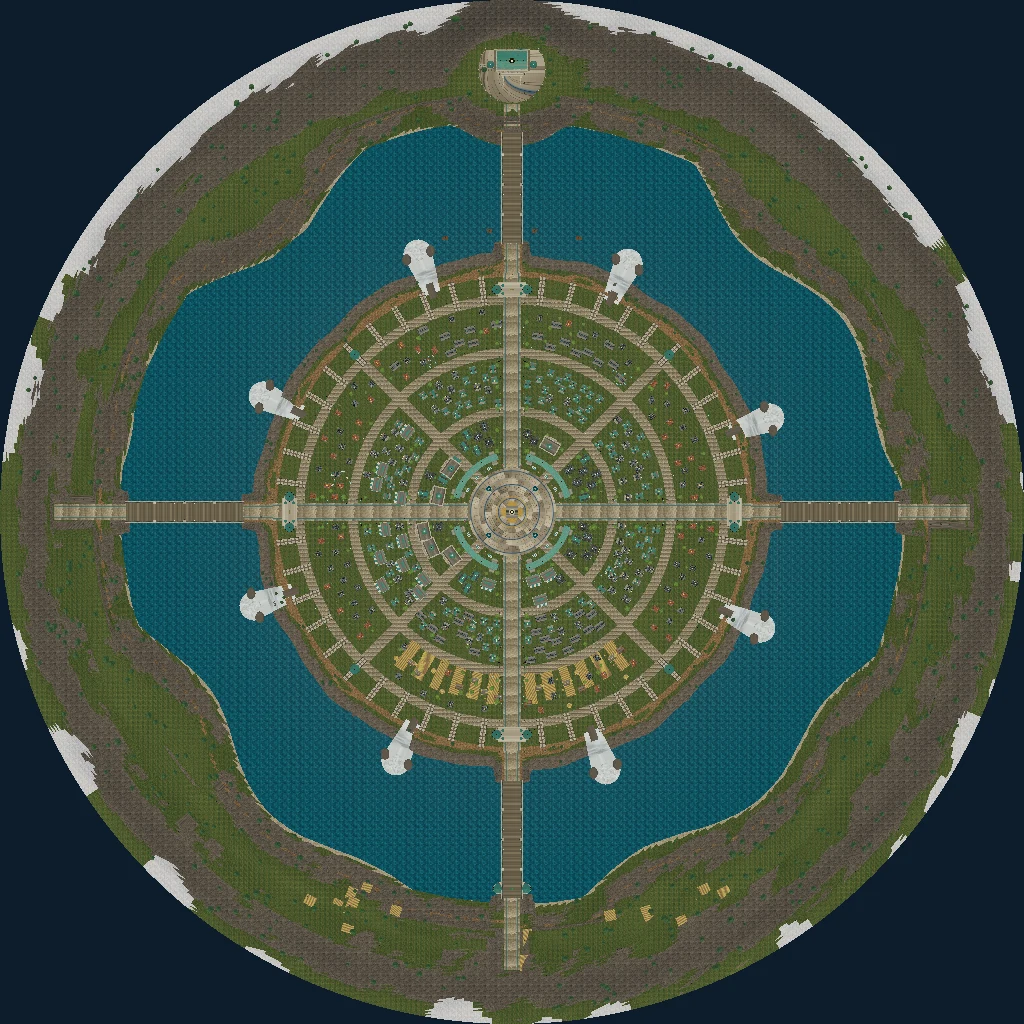
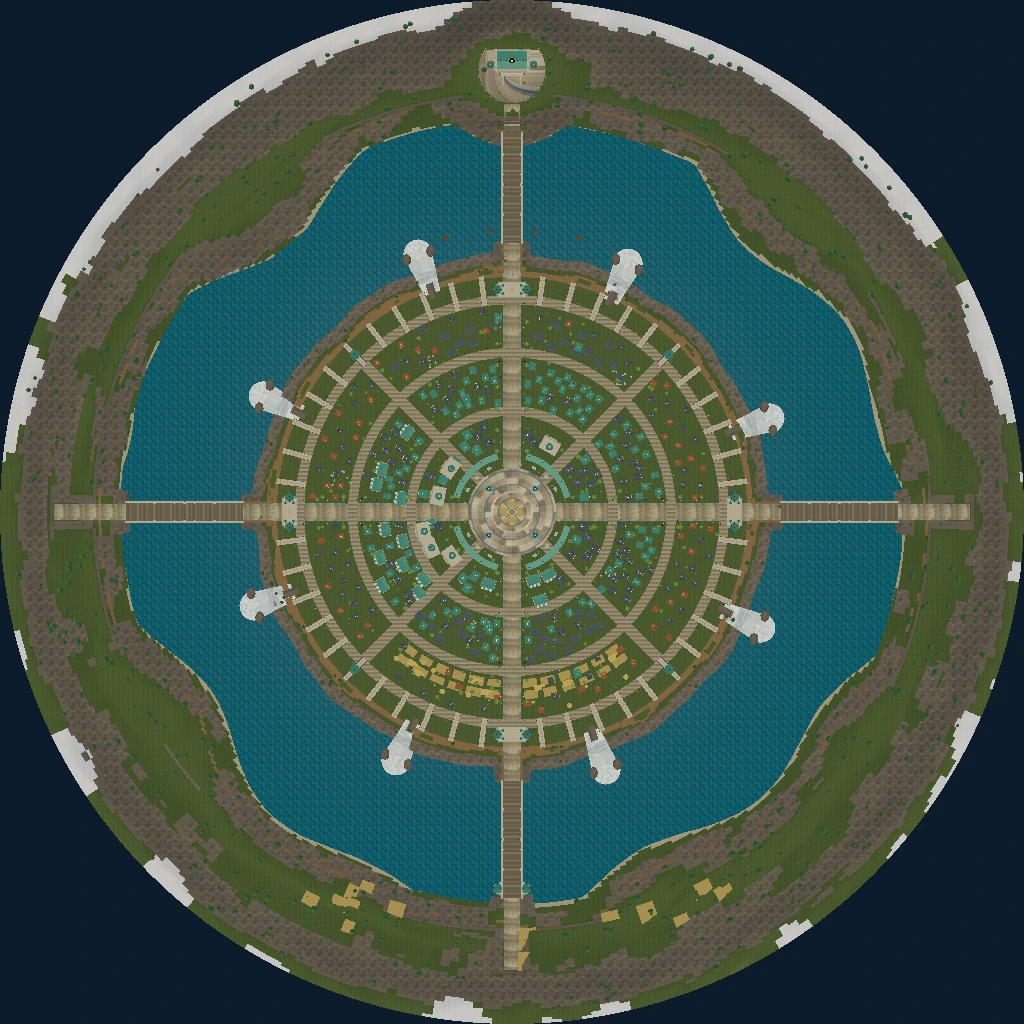
Redraw the packaged minimap, and close the same bug in grid_surface
The shipped `minimap.webp` had drifted from the geometry it claims to be
derived from: it was already stale before the outer ring's classes were
fixed, and that fix moved the ground under it again, so the packaged
cartography showed a rim that no longer existed. It is regenerated from
`rendered_four_gates_minimap.gd`, which was written for exactly this - an
orthographic top-down shot of the shipped GLB, 1024 square, north up,
"so the cartography can never drift" - and re-encoded at WebP quality 92.

Worth recording for whoever compares the two next: WebP at this quality
moves fine dithered ground by up to 95 per channel by itself, so a large
maximum per-pixel difference against a fresh render is not on its own
evidence that an image came from different geometry. That measurement is
what first suggested the old file was unexplainable; most of it was the
encoder.

`grid_surface` carried the same per-triangle classification bug that was
just fixed in `polar_surface`, latent only because nothing passes it a
`material_fn` - `plane` is its one caller and it does not. It decides the
class per quad now too. Its two triangles are a fixed stride apart rather
than adjacent, every first triangle being emitted before any second, so
the pairing is by that stride rather than by neighbours.

`test_geometry.py` grows the check that would have caught either. It
pairs triangles across their shared edge and tells a quad's diagonal from
[…]

diff --git a/eloria-assets/tools/four_gates/test_geometry.py b/eloria-assets/tools/four_gates/test_geometry.py
@@ -102,6 +102,61 @@ SURFACES = {
 }
 
 
+def split_quads(geo, diagonal_fn) -> int:
+    """Quads whose two triangles were given different surface classes.
+
+    A quad's two triangles meet along its diagonal; two triangles from
+    neighbouring quads meet along a grid line. `diagonal_fn` tells the two
+    apart from the shared edge's endpoints alone, so this never has to know how
+    the surface happened to order its faces. A class boundary is allowed to run
+    along a grid line -- that is what a boundary between two patches of ground
+    looks like -- but a boundary along a diagonal means one patch of ground was
+    handed to two classes, which reads from above as a comb of slivers.
+    """
+    shared: dict[tuple[int, int], list[int]] = {}
+    for face_index, face in enumerate(geo.f):
+        for first, second in ((0, 1), (1, 2), (2, 0)):
+            edge = (int(min(face[first], face[second])),
+                    int(max(face[first], face[second])))
+            shared.setdefault(edge, []).append(face_index)
+    split = 0
+    for (lo, hi), faces in shared.items():
+        if len(faces) != 2:
+            continue
+        if not diagonal_fn(geo.v[lo], geo.v[hi]):
+            continue
+        if geo.m[faces[0]] != geo.m[faces[1]]:
+            split += 1
+    return split
+
+
+def cartesian_diagonal(p, q) -> bool:
+    return abs(float(p[0]) - float(q[0])) > 1e-4 and abs(float(p[2]) - float(q[2])) > 1e-4
+
+
+def polar_diagonal(p, q) -> bool:
+    radii = [math.hypot(float(v[0]), float(v[2])) for v in (p, q)]
+    angles = [math.atan2(float(v[2]), float(v[0])) for v in (p, q)]
+    turn = abs(angles[0] - angles[1]) % math.tau
+    turn = min(turn, math.tau - turn)
+    return abs(radii[0] - radii[1]) > 1e-4 and turn > 1e-6
+
+
+# A surface class chosen per triangle rather than per quad splits a quad along
+# its own diagonal wherever the ground crosses a threshold, so each of these
+# uses a field that crosses one right through the middle of the sheet.
+CLASSIFIED = {
+    "grid_surface": (lambda: M.grid_surface(
+        -50, 50, -50, 50, 9, 9, lambda X, Z: 3.0 * np.sin(X * 0.05),
+        material_fn=lambda pts, nrm: (pts[:, 1] > 0.0).astype(np.int32)),
+        cartesian_diagonal),
+    "polar_surface": (lambda: M.polar_surface(
+        np.linspace(10, 200, 21), 47, lambda X, Z: 3.0 * np.sin(X * 0.05),
+        material_fn=lambda pts, nrm: (pts[:, 1] > 0.0).astype(np.int32)),
+        polar_diagonal),
+}
+
+
 def main() -> int:
     failures = []
     print("closed primitives -- signed volume must be positive")
@@ -129,6 +184,18 @@ def main() -> int:
         if mean_y < 0.9:
             failures.append(f"{name}: surface normals point away from +Y ({mean_y:.3f})")
         print(f"  {name:18s} mean normal Y={mean_y:6.3f}")
+
+    print("\nclassified surfaces -- a quad belongs to one surface class")
+    for name, (factory, diagonal_fn) in CLASSIFIED.items():
+        geo = factory()
+        split = split_quads(geo, diagonal_fn)
+        classes = len(np.unique(geo.m))
+        if classes < 2:
+            failures.append(
+                f"{name}: the test field produced one class, so it proves nothing")
+        if split:
+            failures.append(f"{name}: {split} quad(s) split across two classes")
+        print(f"  {name:18s} classes={classes} split_quads={split}")
 
     print()
     if failures:

diff --git a/eloria-assets/tools/four_gates/meshlib.py b/eloria-assets/tools/four_gates/meshlib.py
@@ -488,8 +488,19 @@ def grid_surface(x0, x1, z0, z1, nx, nz, height_fn, material_fn=None,
     # wound so the surface normal points +Y for an upward-facing height field
     f = np.concatenate([np.stack([a, c, b], axis=1), np.stack([a, d, c], axis=1)])
     if material_fn is not None:
-        centres = v[f].mean(axis=1)
-        m = material_fn(centres, _face_normals_for(v, f))
+        # One class per quad, as in polar_surface and for the same reason: a
+        # quad's two triangles are two different planes, so asking each of them
+        # on its own puts a class edge along the quad's own diagonal wherever
+        # the ground is near a threshold. Here the two triangles of a quad are
+        # a fixed stride apart rather than adjacent - every first triangle is
+        # emitted before any second one - so the pairing is by that stride.
+        quads = a.shape[0]
+        centre = v[f].mean(axis=1).reshape(2, quads, 3).mean(axis=0)
+        normal = _face_normals_for(v, f).reshape(2, quads, 3).mean(axis=0)
+        lengths = np.linalg.norm(normal, axis=1, keepdims=True)
+        lengths[lengths == 0.0] = 1.0
+        chosen = np.asarray(material_fn(centre, normal / lengths))
+        m = np.tile(chosen, 2)
     else:
         m = np.full(f.shape[0], material)
     geo = Geo(v, np.zeros_like(v), np.zeros((v.shape[0], 2)), f, m)

diff --git a/eloria-assets/maps/four-gates/change-log.md b/eloria-assets/maps/four-gates/change-log.md
@@ -285,3 +285,37 @@ sub-meshes selects quads, not vertices*.
   class seams.
 - `rendered_four_gates_map.gd`, `rendered_four_gates_views.gd`,
   `test_world_lighting.gd` and `test_occluder_fade.gd` all pass.
+
+## 1.0.5 — the packaged minimap catches up
+
+`minimap.webp` had drifted from the geometry it claims to be derived from. It
+was stale before 1.0.4 and 1.0.4 moved the ground under it again, so the
+packaged cartography showed a rim that no longer existed.
+
+It is regenerated from `rendered_four_gates_minimap.gd`, which is the fixture
+written for exactly this — an orthographic top-down shot of the shipped
+`world.glb`, 1024², north up, centred on the mesh, "so the cartography can never
+drift". Re-encoded at WebP quality 92, which lands at 261 KB against the old
+303 KB.
+
+A note for anyone comparing the two: WebP at this quality moves fine dithered
+ground by up to 95 per channel on its own, so a large maximum per-pixel
+difference against a fresh render is not by itself evidence that the image came
+from different geometry.
+
+The manifest's `minimap.pixelsPerMetre` is computed from `WORLD_EDGE * 2`
+(1584 m) while the render frames the mesh's own bounds (1620 m), so the declared
+scale is 2.3% out. Nothing reads it — the client loads the image and renders its
+live minimap from the GLB — so it is recorded here rather than changed.
+
+### Also in this build
+
+`meshlib.grid_surface` carried the same per-triangle classification bug that
+1.0.4 fixed in `polar_surface`, latent because no caller passes it a
+`material_fn`. It now decides the class per quad as well, and
+`test_geometry.py` grew a check that fails on the old behaviour for both
+surfaces: it pairs triangles across their shared edge, tells a quad's diagonal
+from a grid line geometrically rather than by face order, and counts quads whose
+two halves disagree. Against the per-triangle rule that count is 9 for
+`grid_surface` and 40 for `polar_surface`; it is 0 for both now. No geometry
+changed — `world.glb` is untouched by this entry.
